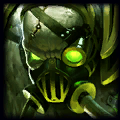
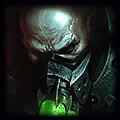
Resource update 7.15.1

diff --git a/css/matchDetailPageSplash.css b/css/matchDetailPageSplash.css
@@ -135,8 +135,8 @@
 }
 
 .matchDetailPage .matchDetailSelection6 {
-    background-position: 276px -33px;
-    background-size: 50%;
+    background-position: 227px -10px;
+    background-size: 61%;
 }
 
 .matchDetailPage .matchDetailSelection77 {
